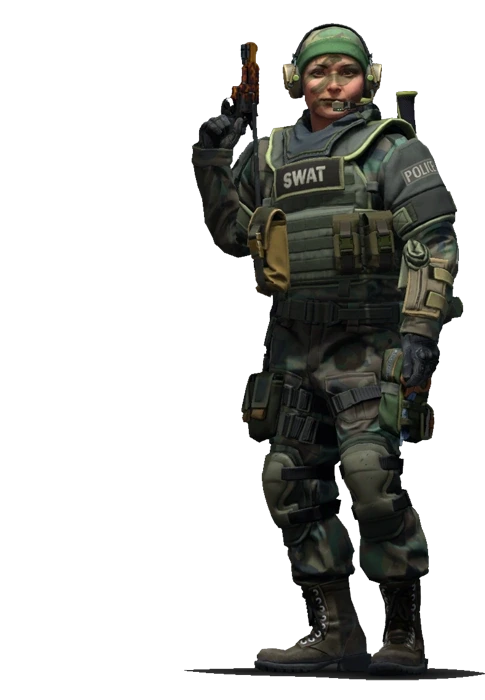
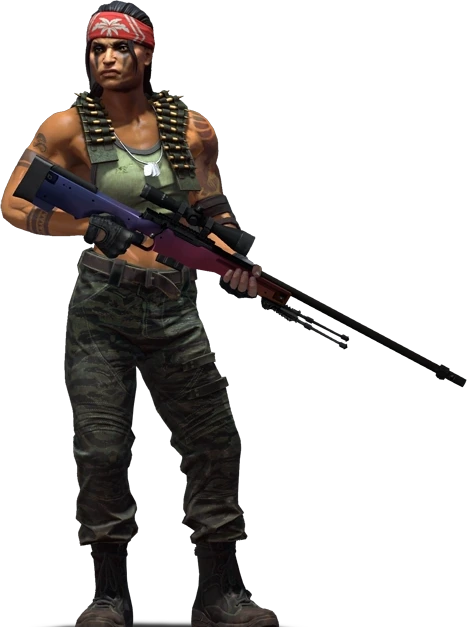
visuels: affiches entieres dans les cartes, agents CS2 retravailles
- VisuelAffiche : les affiches de roster (portrait) s'affichent en entier
  sur un fond flou tire de la meme image, au lieu d'etre rognees dans les
  cartes Equipes, le menu et Recrutement.
- Agents CS2 : nouveaux rendus plus marquants (Coldzy avec un AWP),
  ombres au sol retirees et personnages poses au bas de la carte.

diff --git a/src/components/equipes/equipes-client.tsx b/src/components/equipes/equipes-client.tsx
@@ -1,6 +1,6 @@
 "use client";
 
-import Image from "next/image";
+import { VisuelAffiche } from "@/components/VisuelAffiche";
 import Link from "next/link";
 import { motion } from "motion/react";
 import { ArrowRight, ArrowUpRight } from "lucide-react";
@@ -52,13 +52,10 @@ export function EquipesClient({ pillars }: Props) {
               <Link href={prog.href} className="surface lift group flex h-full flex-col overflow-hidden">
                 <div className="relative aspect-[16/9] overflow-hidden">
                   {prog.image ? (
-                    <Image
+                    <VisuelAffiche
                       src={prog.image}
-                      unoptimized={prog.image.endsWith(".webp")}
-                      alt=""
-                      fill
                       sizes="(min-width: 1024px) 33vw, 100vw"
-                      className="object-cover opacity-80 transition-transform duration-500 group-hover:scale-[1.04]"
+                      className="transition-transform duration-500 group-hover:scale-[1.03]"
                     />
                   ) : (
                     <span

diff --git a/src/components/Header.tsx b/src/components/Header.tsx
@@ -1,5 +1,6 @@
 "use client";
 
+import { VisuelAffiche } from "./VisuelAffiche";
 import Image from "next/image";
 import Link from "next/link";
 import { usePathname, useRouter } from "next/navigation";
@@ -242,7 +243,7 @@ export default function Header({ role }: Props) {
                       >
                         <span className="relative block h-16 w-20 shrink-0 overflow-hidden rounded-[12px] sm:h-auto sm:w-auto sm:rounded-none sm:aspect-[16/9]">
                           {prog.image ? (
-                            <Image src={prog.image} unoptimized={prog.image.endsWith(".webp")} alt="" fill sizes="(min-width: 640px) 280px, 80px" className="object-cover opacity-80" />
+                            <VisuelAffiche src={prog.image} sizes="(min-width: 640px) 280px, 80px" />
                           ) : (
                             <span
                               className="absolute inset-0 grid place-items-center text-[20px] font-bold tracking-[-0.04em] text-white/25 sm:text-[34px]"

diff --git a/src/components/VisuelAffiche.tsx b/src/components/VisuelAffiche.tsx
@@ -1,0 +1,29 @@
+import Image from "next/image";
+
+type Props = {
+  src: string;
+  alt?: string;
+  sizes: string;
+  className?: string;
+};
+
+/* Une affiche (souvent en portrait) dans un cadre paysage : on la montre en
+   entier plutot que de la rogner, posee sur un fond flou tire de la meme
+   image. Le cadre parent doit etre `relative` et avoir sa taille. */
+export function VisuelAffiche({ src, alt = "", sizes, className = "" }: Props) {
+  const webp = src.endsWith(".webp");
+  return (
+    <span className={`absolute inset-0 overflow-hidden ${className}`}>
+      <Image
+        src={src}
+        alt=""
+        aria-hidden
+        fill
+        unoptimized={webp}
+        sizes={sizes}
+        className="scale-110 object-cover opacity-45 blur-2xl"
+      />
+      <Image src={src} alt={alt} fill unoptimized={webp} sizes={sizes} className="object-contain" />
+    </span>
+  );
+}

diff --git a/src/app/recrutement/recrutement-client.tsx b/src/app/recrutement/recrutement-client.tsx
@@ -1,6 +1,6 @@
 "use client";
 
-import Image from "next/image";
+import { VisuelAffiche } from "@/components/VisuelAffiche";
 import Link from "next/link";
 import { motion } from "motion/react";
 import { ArrowRight, ArrowUpRight } from "lucide-react";
@@ -119,7 +119,7 @@ export function RecrutementClient() {
                 <article className="surface flex h-full flex-col overflow-hidden">
                   <div className="relative aspect-[16/9]">
                     {prog.image ? (
-                      <Image src={prog.image} unoptimized={prog.image.endsWith(".webp")} alt="" fill sizes="(min-width: 1024px) 33vw, 100vw" className="object-cover opacity-80" />
+                      <VisuelAffiche src={prog.image} sizes="(min-width: 1024px) 33vw, 100vw" />
                     ) : null}
                   </div>
                   <div className="flex flex-1 flex-col p-6 md:p-8">

diff --git a/src/components/equipes/team-program-page.tsx b/src/components/equipes/team-program-page.tsx
@@ -120,7 +120,7 @@ function CarteJoueur({ player, lang, onSelect }: { player: ProgramPlayer; lang: 
               unoptimized={player.image.endsWith(".webp")}
               sizes="(min-width: 1280px) 280px, (min-width: 768px) 30vw, 50vw"
               className={`transition-transform duration-500 group-hover:scale-[1.03] ${
-                player.cadrage === "entier" ? "object-contain object-bottom p-3 pb-0" : "object-cover object-top"
+                player.cadrage === "entier" ? "object-contain object-bottom px-2 pt-5" : "object-cover object-top"
               }`}
             />
           </>
